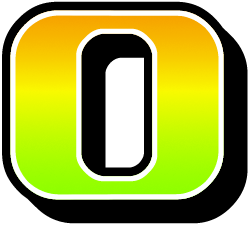
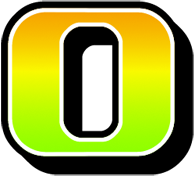
Update Images for NEW Layout

diff --git a/LiteOnViewPort.cpp b/LiteOnViewPort.cpp
@@ -18,39 +18,36 @@ CLiteOnViewPort::CLiteOnViewPort(CControlBase*parent) : CControlBase(parent)
 , m_VolumeMeter(NULL)
 {
 	CDXWrapper::LoadImageFromFileAsyncEx(L"images\\main_gnd_1.png", &m_bg, CResolution::m_screenResolutionX, CResolution::m_screenResolutionY);
-	CDXWrapper::LoadImageFromFileAsyncEx(L"images\\main_gnd_2.png", &m_bg_frame, CResolution::m_screenResolutionX, CResolution::m_screenResolutionY);
 	m_coin_bg = new ID2D1Bitmap*[5];
-	for (int i = 0; i < 5; i++) {
+	for (int i = 0; i < 4; i++) {
 		m_coin_bg[i] = NULL;
 	}
-	CDXWrapper::LoadImageFromFileAsyncEx(L"images\\main_gnd_3-1.png", &m_coin_bg[0], CResolution::m_screenResolutionX, CResolution::m_screenResolutionY);
-	CDXWrapper::LoadImageFromFileAsyncEx(L"images\\main_gnd_3-2.png", &m_coin_bg[1], CResolution::m_screenResolutionX, CResolution::m_screenResolutionY);
-	CDXWrapper::LoadImageFromFileAsyncEx(L"images\\main_gnd_3-3.png", &m_coin_bg[2], CResolution::m_screenResolutionX, CResolution::m_screenResolutionY);
-	CDXWrapper::LoadImageFromFileAsyncEx(L"images\\main_gnd_3-4.png", &m_coin_bg[3], CResolution::m_screenResolutionX, CResolution::m_screenResolutionY);
-	CDXWrapper::LoadImageFromFileAsyncEx(L"images\\main_gnd_3-5.png", &m_coin_bg[4], CResolution::m_screenResolutionX, CResolution::m_screenResolutionY);
-	CDXWrapper::LoadImageFromFileAsyncEx(L"images\\main_gnd_4.png", &m_balloon_bg, CResolution::m_screenResolutionX, CResolution::m_screenResolutionY);
+	CDXWrapper::LoadImageFromFileAsyncEx(L"images\\main_gnd_2-1.png", &m_coin_bg[0], CResolution::m_screenResolutionX, CResolution::m_screenResolutionY);
+	CDXWrapper::LoadImageFromFileAsyncEx(L"images\\main_gnd_2-2.png", &m_coin_bg[1], CResolution::m_screenResolutionX, CResolution::m_screenResolutionY);
+	CDXWrapper::LoadImageFromFileAsyncEx(L"images\\main_gnd_2-3.png", &m_coin_bg[2], CResolution::m_screenResolutionX, CResolution::m_screenResolutionY);
+	CDXWrapper::LoadImageFromFileAsyncEx(L"images\\main_gnd_2-4.png", &m_coin_bg[3], CResolution::m_screenResolutionX, CResolution::m_screenResolutionY);
 
 	m_FaceIcon = new CFaceIcon(this);
 	m_FaceIcon->SetSize(CResolution::m_screenResolutionX / 3.54f, CResolution::m_screenResolutionX / 3.54f);
-	m_FaceIcon->SetLocation(CResolution::m_screenResolutionX - CResolution::m_screenResolutionX / 3.54f, (CResolution::m_screenResolutionY - CResolution::m_screenResolutionX / 3.54f) / 2.f);
+	m_FaceIcon->SetLocation(0.f, 120.f);
 	m_childList.Add(m_FaceIcon);
 
 	m_TeamTitle = new CTeamTitle(this);
 	m_TeamTitle->SetSize(CResolution::m_screenResolutionX / 1.37f, CResolution::m_screenResolutionY / 4.59f);
-	m_TeamTitle->SetLocation((CResolution::m_screenResolutionX - CResolution::m_screenResolutionX / 1.37f) / 2.f, 0.f);
+	m_TeamTitle->SetLocation((CResolution::m_screenResolutionX - CResolution::m_screenResolutionX / 1.37f), 0.f);
 	m_childList.Add(m_TeamTitle);
 
 	m_CountingText = new CCountingText(this);
 	m_CountingText->SetLocation(CResolution::m_screenResolutionX / 15.11f, CResolution::m_screenResolutionY / 4.06f);
 	m_childList.Add(m_CountingText);
-
+	
 	m_TimeCounting = new CTimeCounting(this);
-	m_TimeCounting->SetLocation(CResolution::m_screenResolutionX / 15.11f, CResolution::m_screenResolutionY / 4.06f);
+	m_TimeCounting->SetLocation(CResolution::m_screenResolutionX / 2.56f, CResolution::m_screenResolutionY / 4.59f);
 	m_childList.Add(m_TimeCounting);
 
 	m_VolumeMeter = new CVolumeMeter(this);
-	m_VolumeMeter->SetLocation(CResolution::m_screenResolutionX / 20.64f, CResolution::m_screenResolutionY / 12.13f);
-	m_VolumeMeter->SetSize(CResolution::m_screenResolutionX / 1.0878f, CResolution::m_screenResolutionY / 1.956f);
+	m_VolumeMeter->SetLocation(0.f, CResolution::m_screenResolutionY / 5.f);
+	m_VolumeMeter->SetSize(CResolution::m_screenResolutionX, CResolution::m_screenResolutionY / 2.77f);
 	m_childList.Add(m_VolumeMeter);
 
 	//Event hook
@@ -70,9 +67,7 @@ CLiteOnViewPort::~CLiteOnViewPort()
 	SAFE_RELEASE(m_coin_bg[1]);
 	SAFE_RELEASE(m_coin_bg[2]);
 	SAFE_RELEASE(m_coin_bg[3]);
-	SAFE_RELEASE(m_coin_bg[4]);
 	SAFE_DELETE(m_coin_bg);
-	SAFE_RELEASE(m_balloon_bg);
 	for (int i = 0; i < m_childList.GetSize(); i++)
 		delete m_childList[i];
 }
@@ -227,6 +222,7 @@ bool CLiteOnViewPort::HandleKeyboard(UINT uMsg, WPARAM wParam, LPARAM lParam)
 		case '8':
 		{
 					OnChangeTeam(wParam - 0x31);
+					return true;
 		}
 		case VK_PRIOR:
 		{
@@ -235,6 +231,7 @@ bool CLiteOnViewPort::HandleKeyboard(UINT uMsg, WPARAM wParam, LPARAM lParam)
 			break;
 		case VK_NEXT:
 		{
+						m_FaceIcon->m_bVisible = !m_FaceIcon->m_bVisible;
 						return true;
 		}
 			break;
@@ -319,26 +316,68 @@ void CLiteOnViewPort::OnStartCounting()
 	m_CountingText->m_bVisible = false;
 	
 	m_VolumeMeter->m_bVisible = true;
-	m_VolumeMeter->SetFinish(false);
+	m_VolumeMeter->SetSTATE(V_START);
 	
 	m_TimeCounting->m_bVisible = true;
 	m_TimeCounting->StartCounting();
+	m_TimeCounting->SetLocation(CResolution::m_screenResolutionX / 2.56f, CResolution::m_screenResolutionY / 4.59f);
 }
 
 void CLiteOnViewPort::OnFinishCounting()
 {
-	m_VolumeMeter->SetFinish(true);
-
+	m_TimeCounting->EndCounting();
 	m_TimeCounting->m_bVisible = false;
+	m_VolumeMeter->SetSTATE(V_FINISH);
+
+	DXUTSetTimer(OnFinishCallBack, 2.f, &m_nIDEvent, this);
+	
+}
+
+void CLiteOnViewPort::ShowGrade()
+{
+	m_TimeCounting->m_bVisible = true;
+	m_TimeCounting->SetLocation(CResolution::m_screenResolutionX / 2.74f, CResolution::m_screenResolutionY / 3.32f);
+	m_VolumeMeter->SetSTATE(SHOW_GRADE);
+	m_bFlashFast = true;
+	DXUTKillTimer(m_nIDEvent);
+	DXUTSetTimer(OnFinishGradeCallBack, 2.f, &m_nIDEventGrade, this);
+}
+
+void CLiteOnViewPort::FinishShowGrade()
+{
+	m_VolumeMeter->m_bVisible = false;
+	m_bFlashFast = false;
+	DXUTKillTimer(m_nIDEventGrade);
 }
 
 static float Opacity = 0.f;
-static float OpacityDiff = 0.1f;
+static float OpacityDiff = 0.083f;
+static float OpacityDiffFast = 0.166f;
 
 static int getCoinFlash()
 {
 	Opacity += OpacityDiff;
-	if (Opacity >= 5.f)
+	if (Opacity >= 4.f)
 		Opacity = 0.f;
 	return (int)Opacity;
+}
+
+static int getCoinFlashFast()
+{
+	Opacity += OpacityDiffFast;
+	if (Opacity >= 4.f)
+		Opacity = 0.f;
+	return (int)Opacity;
+}
+
+void WINAPI OnFinishCallBack(UINT nIDEvent, void* pUserContext)
+{
+	CLiteOnViewPort* pLiteOnViewPort = (CLiteOnViewPort*)pUserContext;
+	pLiteOnViewPort->ShowGrade();
+}
+
+void WINAPI OnFinishGradeCallBack(UINT nIDEvent, void* pUserContext)
+{
+	CLiteOnViewPort* pLiteOnViewPort = (CLiteOnViewPort*)pUserContext;
+	pLiteOnViewPort->FinishShowGrade();
 }

diff --git a/TimeCounting.cpp b/TimeCounting.cpp
@@ -12,18 +12,18 @@ CTimeCounting::CTimeCounting(CControlBase*parent) : CControlBase(parent)
 	for (int i = 0; i < 10; i++) {
 		m_ppDigitBitmap[i] = NULL;
 	}
-	CDXWrapper::LoadImageFromFileAsyncEx(L"images\\main_ani_number0.png", &m_ppDigitBitmap[0], CResolution::m_screenResolutionX / 7.5, CResolution::m_screenResolutionY / 4.3);
-	CDXWrapper::LoadImageFromFileAsyncEx(L"images\\main_ani_number1.png", &m_ppDigitBitmap[1], CResolution::m_screenResolutionX / 7.5, CResolution::m_screenResolutionY / 4.3);
-	CDXWrapper::LoadImageFromFileAsyncEx(L"images\\main_ani_number2.png", &m_ppDigitBitmap[2], CResolution::m_screenResolutionX / 7.5, CResolution::m_screenResolutionY / 4.3);
-	CDXWrapper::LoadImageFromFileAsyncEx(L"images\\main_ani_number3.png", &m_ppDigitBitmap[3], CResolution::m_screenResolutionX / 7.5, CResolution::m_screenResolutionY / 4.3);
-	CDXWrapper::LoadImageFromFileAsyncEx(L"images\\main_ani_number4.png", &m_ppDigitBitmap[4], CResolution::m_screenResolutionX / 7.5, CResolution::m_screenResolutionY / 4.3);
-	CDXWrapper::LoadImageFromFileAsyncEx(L"images\\main_ani_number5.png", &m_ppDigitBitmap[5], CResolution::m_screenResolutionX / 7.5, CResolution::m_screenResolutionY / 4.3);
-	CDXWrapper::LoadImageFromFileAsyncEx(L"images\\main_ani_number6.png", &m_ppDigitBitmap[6], CResolution::m_screenResolutionX / 7.5, CResolution::m_screenResolutionY / 4.3);
-	CDXWrapper::LoadImageFromFileAsyncEx(L"images\\main_ani_number7.png", &m_ppDigitBitmap[7], CResolution::m_screenResolutionX / 7.5, CResolution::m_screenResolutionY / 4.3);
-	CDXWrapper::LoadImageFromFileAsyncEx(L"images\\main_ani_number8.png", &m_ppDigitBitmap[8], CResolution::m_screenResolutionX / 7.5, CResolution::m_screenResolutionY / 4.3);
-	CDXWrapper::LoadImageFromFileAsyncEx(L"images\\main_ani_number9.png", &m_ppDigitBitmap[9], CResolution::m_screenResolutionX / 7.5, CResolution::m_screenResolutionY / 4.3);
+	CDXWrapper::LoadImageFromFileAsyncEx(L"images\\main_ani_number0.png", &m_ppDigitBitmap[0]);
+	CDXWrapper::LoadImageFromFileAsyncEx(L"images\\main_ani_number1.png", &m_ppDigitBitmap[1]);
+	CDXWrapper::LoadImageFromFileAsyncEx(L"images\\main_ani_number2.png", &m_ppDigitBitmap[2]);
+	CDXWrapper::LoadImageFromFileAsyncEx(L"images\\main_ani_number3.png", &m_ppDigitBitmap[3]);
+	CDXWrapper::LoadImageFromFileAsyncEx(L"images\\main_ani_number4.png", &m_ppDigitBitmap[4]);
+	CDXWrapper::LoadImageFromFileAsyncEx(L"images\\main_ani_number5.png", &m_ppDigitBitmap[5]);
+	CDXWrapper::LoadImageFromFileAsyncEx(L"images\\main_ani_number6.png", &m_ppDigitBitmap[6]);
+	CDXWrapper::LoadImageFromFileAsyncEx(L"images\\main_ani_number7.png", &m_ppDigitBitmap[7]);
+	CDXWrapper::LoadImageFromFileAsyncEx(L"images\\main_ani_number8.png", &m_ppDigitBitmap[8]);
+	CDXWrapper::LoadImageFromFileAsyncEx(L"images\\main_ani_number9.png", &m_ppDigitBitmap[9]);
 
-	CDXWrapper::LoadImageFromFileAsyncEx(L"images\\main_ani_number dot.png", &m_pSemiColon, CResolution::m_screenResolutionX / 7.5, CResolution::m_screenResolutionY / 4.3);
+	CDXWrapper::LoadImageFromFileAsyncEx(L"images\\main_ani_number dot.png", &m_pSemiColon);
 }
 
 
@@ -61,16 +61,16 @@ void CTimeCounting::Render(ID2D1DeviceContext*d2ddc) {
 	UpdateDigit();
 	if (m_ppDigitBitmap[m_pDigit[0]] != NULL)
 		d2ddc->DrawBitmap(m_ppDigitBitmap[m_pDigit[0]]);
-	d2ddc->SetTransform(D2D1::Matrix3x2F::Translation(CResolution::m_screenResolutionX / 7.6, 0) * _world);
+	d2ddc->SetTransform(D2D1::Matrix3x2F::Translation(CResolution::m_screenResolutionX / 9.8f, 0) * _world);
 	if (m_ppDigitBitmap[m_pDigit[1]] != NULL)
 		d2ddc->DrawBitmap(m_ppDigitBitmap[m_pDigit[1]]);
-	d2ddc->SetTransform(D2D1::Matrix3x2F::Translation(CResolution::m_screenResolutionX / 7.6 * 2, 0) * _world);
+	d2ddc->SetTransform(D2D1::Matrix3x2F::Translation(CResolution::m_screenResolutionX / 9.8f * 2, 0) * _world);
 	if (m_pSemiColon != NULL)
 		d2ddc->DrawBitmap(m_pSemiColon);
-	d2ddc->SetTransform(D2D1::Matrix3x2F::Translation(CResolution::m_screenResolutionX / 7.6 * 3, 0) * _world);
+	d2ddc->SetTransform(D2D1::Matrix3x2F::Translation(CResolution::m_screenResolutionX / 9.8f * 3, 0) * _world);
 	if (m_ppDigitBitmap[m_pDigit[2]] != NULL)
 		d2ddc->DrawBitmap(m_ppDigitBitmap[m_pDigit[2]]);
-	d2ddc->SetTransform(D2D1::Matrix3x2F::Translation(CResolution::m_screenResolutionX / 7.6f * 4, 0) * _world);
+	d2ddc->SetTransform(D2D1::Matrix3x2F::Translation(CResolution::m_screenResolutionX / 9.8f * 4, 0) * _world);
 	if (m_ppDigitBitmap[m_pDigit[3]] != NULL)
 		d2ddc->DrawBitmap(m_ppDigitBitmap[m_pDigit[3]]);
 
@@ -85,12 +85,22 @@ void CTimeCounting::StartCounting()
 	{
 		m_pDigit[i] = 0;
 	}
+	m_bIsFinish = false;
+}
+
+void CTimeCounting::EndCounting()
+{
+	m_endTime = timeGetTime();
+	m_fGrade = (m_endTime - m_startTime) / 1000.f;
+	m_bIsFinish = true;
 }
 
 void CTimeCounting::UpdateDigit() 
 {
 	m_endTime = timeGetTime();
 	float sec = (m_endTime - m_startTime) / 1000.f;
+	if (m_bIsFinish)
+		sec = m_fGrade;
 	m_pDigit[0] = sec / 10.f > 10 ? 0 : sec / 10.f;
 	m_pDigit[1] = (int)sec % 10;
 	m_pDigit[2] = (int)(sec * 10.f) % 10;

diff --git a/VolumeMeter.cpp b/VolumeMeter.cpp
@@ -37,19 +37,16 @@ CVolumeMeter::CVolumeMeter(CControlBase*parent) : CControlBase(parent)
 		&m_pGradient_stop_collection
 		);
 
-	CDXWrapper::LoadImageFromFileAsyncEx(L"images\\main_img_end.png", &m_pFinishBmp, CResolution::m_screenResolutionX / 2.44f, CResolution::m_screenResolutionY / 3.37f);
+	CDXWrapper::LoadImageFromFileAsyncEx(L"images\\main_img_end.png", &m_pFinishBmp);
 
 	m_ppFlameBg = new ID2D1Bitmap*[4];
-	for (int i = 0; i < 4; i++) {
+	for (int i = 0; i < 2; i++) {
 		m_ppFlameBg[i] = NULL;
 	}
 
-	CDXWrapper::LoadImageFromFileAsyncEx(L"images\\main_gnd_end-1.png", &m_ppFlameBg[0], CResolution::m_screenResolutionX / 1.0878f, CResolution::m_screenResolutionY / 1.956f);
-	CDXWrapper::LoadImageFromFileAsyncEx(L"images\\main_gnd_end-2.png", &m_ppFlameBg[1], CResolution::m_screenResolutionX / 1.0878f, CResolution::m_screenResolutionY / 1.956f);
-	CDXWrapper::LoadImageFromFileAsyncEx(L"images\\main_gnd_end-3.png", &m_ppFlameBg[2], CResolution::m_screenResolutionX / 1.0878f, CResolution::m_screenResolutionY / 1.956f);
-	CDXWrapper::LoadImageFromFileAsyncEx(L"images\\main_gnd_end-4.png", &m_ppFlameBg[3], CResolution::m_screenResolutionX / 1.0878f, CResolution::m_screenResolutionY / 1.956f);
-
-	
+	CDXWrapper::LoadImageFromFileAsyncEx(L"images\\main_gnd_end-1.png", &m_ppFlameBg[0]);
+	CDXWrapper::LoadImageFromFileAsyncEx(L"images\\main_gnd_end-2.png", &m_ppFlameBg[1]);
+		
 	CLog::Init(_T("Log.txt"));
 }
 

diff --git a/FaceIcon.cpp b/FaceIcon.cpp
@@ -8,7 +8,7 @@ CFaceIcon::CFaceIcon(CControlBase*parent) : CControlBase(parent)
 	for (int i = 0; i < 7; i++) {
 		m_pFaceIcon[i] = NULL;
 	}
-	CDXWrapper::LoadImageFromFileAsyncEx(L"images\\main_ani_stage0.png", &m_pFaceIcon[0], CResolution::m_screenResolutionX / 3.5, CResolution::m_screenResolutionX / 3.5);
+	CDXWrapper::LoadImageFromFileAsyncEx(L"images\\main_ani_stage0.png", &m_pFaceIcon[0]);
 	CDXWrapper::LoadImageFromFileAsyncEx(L"images\\main_ani_stage1.png", &m_pFaceIcon[1], CResolution::m_screenResolutionX / 3.5, CResolution::m_screenResolutionX / 3.5);
 	CDXWrapper::LoadImageFromFileAsyncEx(L"images\\main_ani_stage2.png", &m_pFaceIcon[2], CResolution::m_screenResolutionX / 3.5, CResolution::m_screenResolutionX / 3.5);
 	CDXWrapper::LoadImageFromFileAsyncEx(L"images\\main_ani_stage3.png", &m_pFaceIcon[3], CResolution::m_screenResolutionX / 3.5, CResolution::m_screenResolutionX / 3.5);
